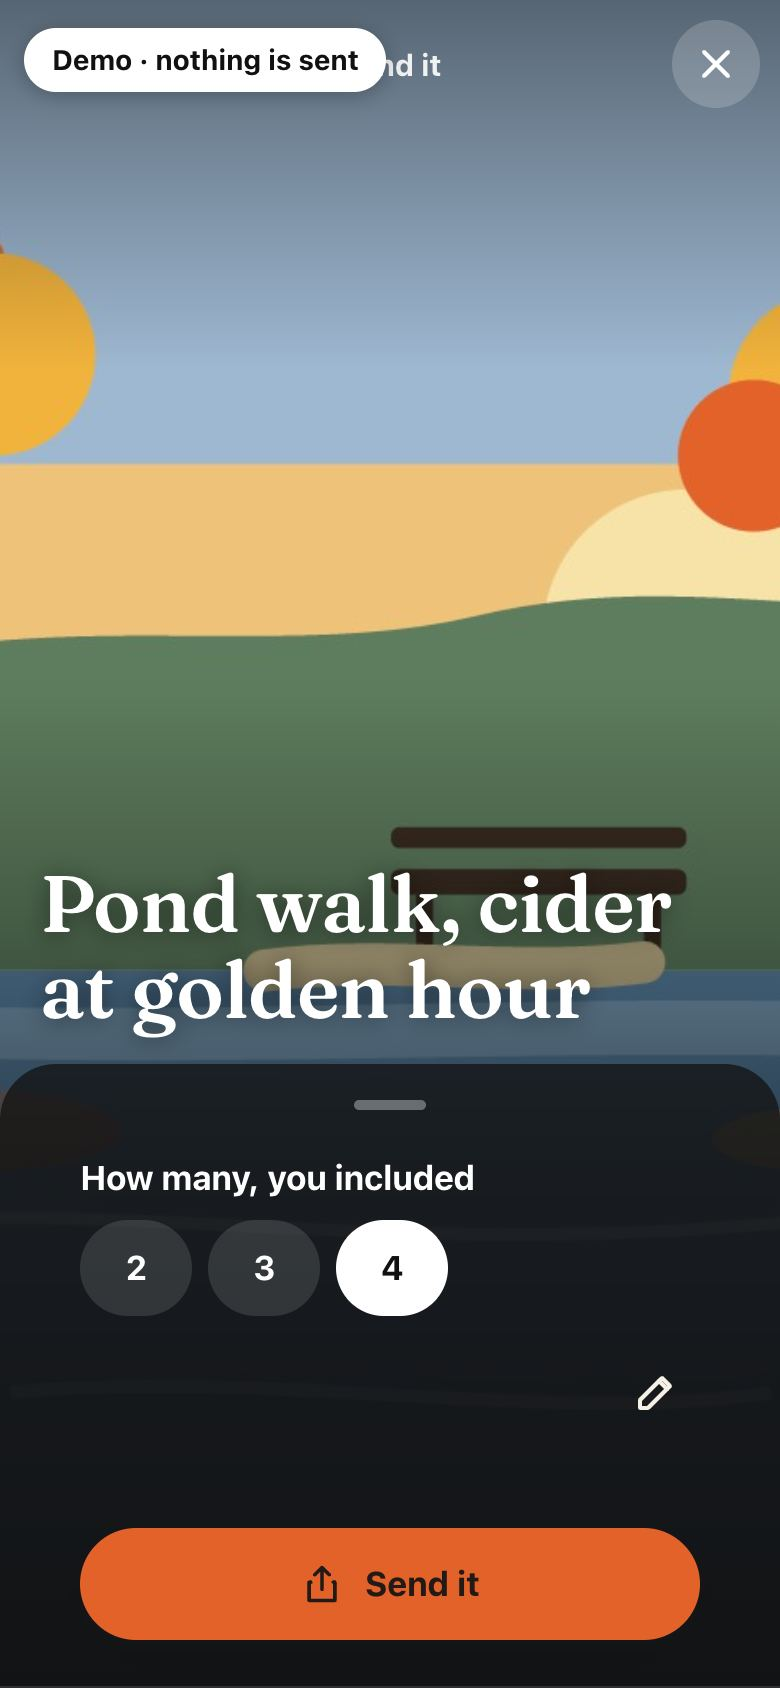
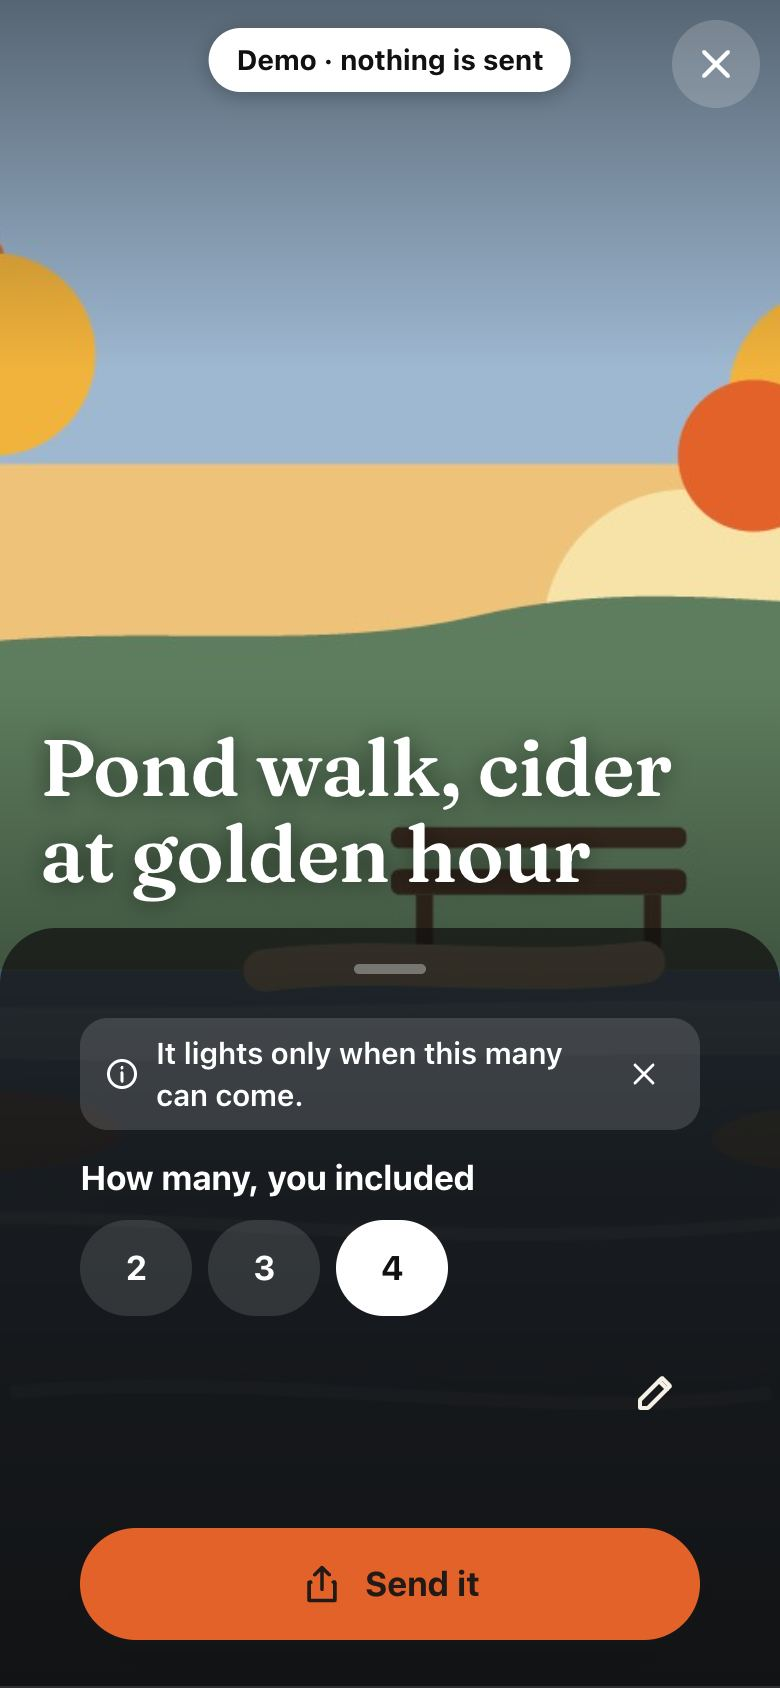
Env aliases for the founder's new keys (ELEVENLABS, TINKER, GEMINI); check-env knows them; backlog
Entire-Checkpoint: 01M4NRTAT7CCRNAA2Z28NYJ815

Changed region(s): [[0.0, 0.4313, 1.0, 0.6777], [0.0308, 0.0, 0.7385, 0.0616]]

diff --git a/scripts/lib/env-spec.ts b/scripts/lib/env-spec.ts
@@ -2,7 +2,7 @@
 // a report never contains a value, a prefix or a length.
 import { accountToken } from "../../packages/shared/src/token-guard.ts";
 
-export type App = "server" | "hub" | "bot" | "deploy" | "test-area";
+export type App = "server" | "hub" | "bot" | "deploy" | "test-area" | "ml";
 export type Rule = {
   key: string;
   apps: App[];
@@ -126,6 +126,26 @@ export const SPEC: Rule[] = [
       const t = accountToken(v);
       return t ? `this is ${t}, not a scoped model access key; the cloud tier stays off` : null;
     },
+  },
+  {
+    key: "GEMINI_API_KEY",
+    apps: ["server"],
+    required: false,
+    why: "Google AI Studio (Gemini API) for the Gemma cloud tier when DigitalOcean is off; off when empty",
+  },
+  { key: "GEMINI_PROJECTNO", apps: ["server"], required: false, why: "Google Cloud project number, for quota lookups" },
+  { key: "GEMINI_PROJECTNAME", apps: ["server"], required: false, why: "Google Cloud project name, for quota lookups" },
+  {
+    key: "ELEVENLABS_API_KEY",
+    apps: ["server"],
+    required: false,
+    why: "ElevenLabs voice for spoken guidance and opt-in Voice Sparks; off when empty (alias ELEVENLABS)",
+  },
+  {
+    key: "TINKER_API_KEY",
+    apps: ["ml"],
+    required: false,
+    why: "Tinker fine-tuning, ML work only, never deployed (alias TINKER)",
   },
   { key: "RENDER_KEY", apps: ["deploy"], required: true, why: "Render API, deploy only" },
   { key: "TEST_AREA_NAME", apps: ["test-area"], required: false, why: "Map pack label" },

diff --git a/scripts/check-env.ts b/scripts/check-env.ts
@@ -3,17 +3,19 @@
 import fs from "node:fs";
 import path from "node:path";
 import { fileURLToPath } from "node:url";
+import { applyEnvAliases } from "../packages/shared/src/env-aliases.ts";
 import { type App, check, failed, format } from "./lib/env-spec.ts";
 
 const ROOT = path.resolve(path.dirname(fileURLToPath(import.meta.url)), "..");
 const file = process.env.FLARE_ENV_FILE ?? path.join(ROOT, ".env");
-const ALL: App[] = ["server", "hub", "bot", "deploy", "test-area"];
+const ALL: App[] = ["server", "hub", "bot", "deploy", "test-area", "ml"];
 const asked = process.argv.slice(2).filter((a): a is App => (ALL as string[]).includes(a));
 const apps = asked.length ? asked : ALL;
 
 // Parse into a private object so the check never mutates process.env.
 const vars: Record<string, string | undefined> = { ...process.env };
 if (fs.existsSync(file)) Object.assign(vars, parseEnv(fs.readFileSync(file, "utf8")));
+applyEnvAliases(vars);
 function parseEnv(text: string): Record<string, string> {
   const util = process as unknown as {
     getBuiltinModule?: (m: string) => { parseEnv?: (s: string) => Record<string, string> };

diff --git a/packages/shared/src/env-aliases.ts b/packages/shared/src/env-aliases.ts
@@ -1,0 +1,15 @@
+// Short names the founder used in .env, mapped to the names the code reads. The canonical
+// name wins when both are set. Values are never printed or logged.
+export const ENV_ALIASES: Record<string, string> = {
+  ELEVENLABS: "ELEVENLABS_API_KEY",
+  TINKER: "TINKER_API_KEY",
+  GEMINI: "GEMINI_API_KEY",
+};
+
+/** Copies alias values onto their canonical names, in place, when the canonical one is empty. */
+export function applyEnvAliases(vars: Record<string, string | undefined>): Record<string, string | undefined> {
+  for (const [alias, name] of Object.entries(ENV_ALIASES)) {
+    if (!vars[name] && vars[alias]) vars[name] = vars[alias];
+  }
+  return vars;
+}

diff --git a/apps/server/src/env.ts b/apps/server/src/env.ts
@@ -2,10 +2,12 @@
 import fs from "node:fs";
 import path from "node:path";
 import { fileURLToPath } from "node:url";
+import { applyEnvAliases } from "@flare/shared/env-aliases";
 
 const ROOT = path.resolve(path.dirname(fileURLToPath(import.meta.url)), "../../..");
 const file = process.env.FLARE_ENV_FILE ?? path.join(ROOT, ".env");
 if (fs.existsSync(file)) process.loadEnvFile(file);
+applyEnvAliases(process.env); // ELEVENLABS → ELEVENLABS_API_KEY, TINKER → TINKER_API_KEY
 
 const str = (k: string, d = "") => process.env[k] ?? d;
 export const env = {

diff --git a/docs/content/03-checks.md b/docs/content/03-checks.md
@@ -4,7 +4,7 @@ Generated by `design/prototype/scripts/copy-lint.mjs`. Run it from `design/proto
 
 ## Result
 
-- Strings checked: **775** keys (7 with a singular form), in 21 kinds: title 109, aria 28, status 66, label 63, button 102, hint 60, separator 2, error 29, message 104, placeholder 7, share 7, option 13, fragment 33, export 1, push 12, bot 18, log 1, sms 4, og-title 9, og-desc 10, prose 97.
+- Strings checked: **795** keys (7 with a singular form), in 21 kinds: title 114, aria 29, status 66, label 67, button 106, hint 66, separator 2, error 29, message 104, placeholder 7, share 7, option 13, fragment 33, export 1, push 12, bot 18, log 1, sms 4, og-title 9, og-desc 10, prose 97.
 - Problems: **0**.
 - Longest button: 3 words (limit 3). Longest UI string: 12 words (limit 12). Longest prose sentence: 23 words (limit 25).
 - Fixed requirement strings present word for word: 41 of 41.
@@ -32,12 +32,12 @@ Every string, raw template and filled sample, against each rule:
 
 ## Readability (Flesch-Kincaid grade)
 
-Formula: 0.39 × (words ÷ sentences) + 11.8 × (syllables ÷ words) − 15.59, in `scripts/readability.mjs`. Strings of 4 words or more are graded (452); the other 316 are buttons and labels of 1 to 3 words, where one long word decides the score and the grade means nothing. Scores below 0 count as 0 in the averages. Target: about grade 6.
+Formula: 0.39 × (words ÷ sentences) + 11.8 × (syllables ÷ words) − 15.59, in `scripts/readability.mjs`. Strings of 4 words or more are graded (466); the other 322 are buttons and labels of 1 to 3 words, where one long word decides the score and the grade means nothing. Scores below 0 count as 0 in the averages. Target: about grade 6.
 
 | Group | Strings | Average grade | Over 8 |
 | --- | --- | --- | --- |
-| All graded strings | 452 | 2.2 | 11 |
-| UI (buttons, messages, labels, push, bot) | 346 | 1.6 | 5 |
+| All graded strings | 466 | 2.1 | 11 |
+| UI (buttons, messages, labels, push, bot) | 360 | 1.6 | 5 |
 | Prose (website, statements, exports) | 106 | 4.0 | 6 |
 
 Strings above grade 8, and why they stay:
@@ -154,7 +154,7 @@ Note for engineering: the "…" that BR-CH-2 asks for is not in the GSM-7 alphab
 These strings are final but live in channels or components outside this role's files. Each group says who wires it.
 
 - **Component (wire after merge): Screen.svelte** (2): `app.close`, `app.menu`
-- **Engineering or design to place** (211): `app.sending`, `app.loading`, `app.waking`, `home.golden`, `home.goldenH`, `home.goldenNow`, `home.goldenLeft`, `home.after`, `home.outside`, `home.dry`, `home.rain`, `home.green`, `home.light`, `home.plan`, `home.near`, `home.nearNote`, `demo.badge`, `demo.try`, `demo.skip`, `demo.asFriend`, `demo.said`, `demo.shrinkHint`, `demo.done`, `demo.again`, `demo.real`, `app.tier.phone`, `app.tier.rules`, `app.dot`, `err.server`, `err.rateLimit`, `err.over`, `err.sealPhoto`, `err.storageFull`, `err.oldBrowser`, `err.inAppBrowser`, `perm.locationHost.title`, `perm.locationHost.body`, `perm.locationHost.allow`, `perm.locationHost.alt`, `perm.locationHost.denied`, `perm.locationHost.label`, `perm.locationHost.placeholder`, `perm.locationFriend.title`, `perm.locationFriend.body`, `perm.locationFriend.allow`, `perm.locationFriend.alt`, `perm.locationFriend.denied`, `perm.motion.title`, `perm.motion.body`, `perm.motion.allow`, `perm.motion.alt`, `perm.motion.denied`, `perm.notify.title`, `perm.notify.body`, `perm.notify.allow`, `perm.notify.alt`, `perm.notify.homeScreen`, `perm.notify.homeScreenHow`, `perm.notify.denied`, `perm.mic.title`, `perm.mic.body`, `perm.mic.body2`, `perm.mic.allow`, `perm.mic.alt`, `perm.mic.denied`, `develop.tooLong`, `sent.copyText`, `sent.copied`, `host.cancel.title`, `host.cancel.body`, `host.cancel.yes`, `host.cancel.no`, `host.textYes.open`, `host.textYes.label`, `host.textYes.hint`, `host.textYes.add`, `host.textYes.done`, `host.textYes.max`, `host.textYes.wrong`, `host.live.title`, `host.live.body`, `host.live.yes`, `host.live.no`, `join.full`, `invite.where`, `cond.listening`, `cond.tooMany`, `readback.line`, `readback.rule.after`, `readback.rule.maxWalk`, `readback.chip.after`, `readback.chip.maxWalk`, `readback.plain.title`, `readback.plain.yes`, `readback.plain.no`, `in.takenBack`, `notSuit.restroom`, `access.benchHere`, `access.noneNear`, `access.unknown`, `need.toLight`, `need.private`, `lit.together`, `lit.cantSheet.title`, `lit.cantSheet.body`, `lit.cantSheet.yes`, `lit.cantSheet.no`, `lit.cantDone`, `compass.start`, `compass.near`, `compass.apart`, `compass.figure8`, `outside.together`, `outside.away`, `outside.awayBody`, `outside.awayCta`, `plan.pickStart`, `plan.pickDeadline`, `plan.err.tooSoon`, `plan.err.tooFar`, `ladder.madeRules`, `ladder.template.step1`, `ladder.template.step2`, `ladder.template.step3`, `ladder.template.step4`, `ladder.sunsetOff`, `ladder.err.order`, `planLit.ember`, `fade.newSpot`, `menu.tg`, `menu.tgSub`, `forget.title`, `forget.body`, `forget.last`, `forget.yes`, `forget.no`, `forget.done`, `more.noGroup`, `forget.failed`, `needs.saved`, `check.copied`, `loop.stopReading`, `loop.noLocation`, `loop.noMap`, `loop.hint`, `loop.finding`, `loop.card.title`, `loop.turn.water`, `map.exportFile`, `map.photoGone`, `map.noteText`, `map.pick`, `map.starter`, `map.changeLabel`, `map.badValue`, `map.save`, `map.noLocation`, `map.copied`, `map.photoAsk`, `map.noPhoto`, `map.drafted`, `map.noDraft`, `site.nav.skip`, `site.nav.footAria`, `site.nav.open`, `site.home.readHow`, `site.home.readPrivacy`, `site.home.readAccess`, `site.home.readRun`, `site.how.gemma`, `site.privacy.audit.live`, `site.privacy.audit.pass`, `site.privacy.audit.fail`, `site.privacy.audit.down`, `site.privacy.audit.colStore`, `site.privacy.audit.colLeft`, `site.privacy.audit.colTotal`, `site.privacy.audit.caption`, `site.run.needs`, `site.run.s1`, `site.run.s2`, `site.run.s3`, `site.run.db`, `site.run.license`, `app.soundOff`, `app.soundOn`, `app.updateReady`, `app.updateReload`, `app.outboxDropped`, `install.title`, `install.body`, `install.cta`, `install.later`, `install.done`, `tg.title`, `tg.what`, `tg.sees`, `tg.add`, `tg.steps`, `tg.connected`, `tg.notYet`, `tg.photos`, `tg.photosNote`, `tg.photosOffNote`, `tg.on`, `tg.off`, `tg.saved`, `tg.unavailable`, `site.privacy.l.sentry`, `site.privacy.l.cloud`, `site.privacy.l.sleep`
+- **Engineering or design to place** (231): `app.sending`, `app.loading`, `app.waking`, `home.golden`, `home.goldenH`, `home.goldenNow`, `home.goldenLeft`, `home.after`, `home.outside`, `home.dry`, `home.rain`, `home.green`, `home.light`, `home.plan`, `home.near`, `home.nearNote`, `demo.badge`, `demo.try`, `demo.skip`, `demo.asFriend`, `demo.said`, `demo.shrinkHint`, `demo.done`, `demo.again`, `demo.real`, `onb.1.title`, `onb.1.body`, `onb.2.title`, `onb.2.body`, `onb.3.title`, `onb.3.body`, `onb.next`, `onb.skip`, `onb.name`, `onb.nameHint`, `onb.go`, `onb.how`, `onb.link`, `onb.linkHelp`, `onb.cardAria`, `tip.home`, `tip.invite`, `tip.compass`, `tip.send`, `app.tier.phone`, `app.tier.rules`, `app.dot`, `err.server`, `err.rateLimit`, `err.over`, `err.sealPhoto`, `err.storageFull`, `err.oldBrowser`, `err.inAppBrowser`, `perm.locationHost.title`, `perm.locationHost.body`, `perm.locationHost.allow`, `perm.locationHost.alt`, `perm.locationHost.denied`, `perm.locationHost.label`, `perm.locationHost.placeholder`, `perm.locationFriend.title`, `perm.locationFriend.body`, `perm.locationFriend.allow`, `perm.locationFriend.alt`, `perm.locationFriend.denied`, `perm.motion.title`, `perm.motion.body`, `perm.motion.allow`, `perm.motion.alt`, `perm.motion.denied`, `perm.notify.title`, `perm.notify.body`, `perm.notify.allow`, `perm.notify.alt`, `perm.notify.homeScreen`, `perm.notify.homeScreenHow`, `perm.notify.denied`, `perm.mic.title`, `perm.mic.body`, `perm.mic.body2`, `perm.mic.allow`, `perm.mic.alt`, `perm.mic.denied`, `develop.tooLong`, `sent.copyText`, `sent.copied`, `host.kindling.justSent`, `host.cancel.title`, `host.cancel.body`, `host.cancel.yes`, `host.cancel.no`, `host.textYes.open`, `host.textYes.label`, `host.textYes.hint`, `host.textYes.add`, `host.textYes.done`, `host.textYes.max`, `host.textYes.wrong`, `host.live.title`, `host.live.body`, `host.live.yes`, `host.live.no`, `join.full`, `invite.where`, `cond.listening`, `cond.tooMany`, `readback.line`, `readback.rule.after`, `readback.rule.maxWalk`, `readback.chip.after`, `readback.chip.maxWalk`, `readback.plain.title`, `readback.plain.yes`, `readback.plain.no`, `in.takenBack`, `notSuit.restroom`, `access.benchHere`, `access.noneNear`, `access.unknown`, `need.toLight`, `need.private`, `lit.together`, `lit.cantSheet.title`, `lit.cantSheet.body`, `lit.cantSheet.yes`, `lit.cantSheet.no`, `lit.cantDone`, `compass.start`, `compass.near`, `compass.apart`, `compass.figure8`, `outside.together`, `outside.away`, `outside.awayBody`, `outside.awayCta`, `plan.pickStart`, `plan.pickDeadline`, `plan.err.tooSoon`, `plan.err.tooFar`, `ladder.madeRules`, `ladder.template.step1`, `ladder.template.step2`, `ladder.template.step3`, `ladder.template.step4`, `ladder.sunsetOff`, `ladder.err.order`, `planLit.ember`, `fade.newSpot`, `menu.tg`, `menu.tgSub`, `forget.title`, `forget.body`, `forget.last`, `forget.yes`, `forget.no`, `forget.done`, `more.noGroup`, `forget.failed`, `needs.saved`, `check.copied`, `loop.stopReading`, `loop.noLocation`, `loop.noMap`, `loop.hint`, `loop.finding`, `loop.card.title`, `loop.turn.water`, `map.exportFile`, `map.photoGone`, `map.noteText`, `map.pick`, `map.starter`, `map.changeLabel`, `map.badValue`, `map.save`, `map.noLocation`, `map.copied`, `map.photoAsk`, `map.noPhoto`, `map.drafted`, `map.noDraft`, `site.nav.skip`, `site.nav.footAria`, `site.nav.open`, `site.home.readHow`, `site.home.readPrivacy`, `site.home.readAccess`, `site.home.readRun`, `site.how.gemma`, `site.privacy.audit.live`, `site.privacy.audit.pass`, `site.privacy.audit.fail`, `site.privacy.audit.down`, `site.privacy.audit.colStore`, `site.privacy.audit.colLeft`, `site.privacy.audit.colTotal`, `site.privacy.audit.caption`, `site.run.needs`, `site.run.s1`, `site.run.s2`, `site.run.s3`, `site.run.db`, `site.run.license`, `app.soundOff`, `app.soundOn`, `app.updateReady`, `app.updateReload`, `app.outboxDropped`, `install.title`, `install.body`, `install.cta`, `install.later`, `install.done`, `tg.title`, `tg.what`, `tg.sees`, `tg.add`, `tg.steps`, `tg.connected`, `tg.notYet`, `tg.photos`, `tg.photosNote`, `tg.photosOffNote`, `tg.on`, `tg.off`, `tg.saved`, `tg.unavailable`, `site.privacy.l.sentry`, `site.privacy.l.cloud`, `site.privacy.l.sleep`
 - **Component (wire after merge): apps/web/src/lib/ai** (6): `develop.empty`, `ladder.err.minutes`, `ladder.err.total`, `ladder.err.name`, `app.tier.cloud`, `ladder.madeCloud`
 - **Channel (engineering): share** (7): `share.flare.title`, `share.flare.text`, `share.plan.title`, `share.plan.text`, `share.card.title`, `share.card.text`, `share.note.title`
 - **Component (wire after merge): motion:PhotoPrint** (1): `invite.photoFallback`

diff --git a/docs/content/02-copy-deck.md b/docs/content/02-copy-deck.md
@@ -2,7 +2,7 @@
 
 Generated by `design/prototype/scripts/copy-lint.mjs` from `design/prototype/src/lib/copy/deck.json` (version 1.0, 2026-10-10). Do not edit this file by hand; edit the JSON and run the script.
 
-775 keys. Text is the template; **Words** and **Grade** are measured on the template filled with the sample values in `meta.sample` (Fuego, Ford Woods Park, by the pond). **Source** is the requirement a fixed string comes from; those must not change without a change request.
+795 keys. Text is the template; **Words** and **Grade** are measured on the template filled with the sample values in `meta.sample` (Fuego, Ford Woods Park, by the pond). **Source** is the requirement a fixed string comes from; those must not change without a change request.
 
 Variants in force: `privacy.coords` = B, `og.link` = safe. A = server holds spot coordinates until Gone (analyst decision 10, current requirements). B = OQ-1 adopted: coordinates only inside the sealed invite. B is in force: ADR-0009 adopted OQ-1. safe = preview uses only what the server can read (count, not the invite). full = BR-CH-4 as written (invite line in the preview); needs the server to hold the six words in plain text, which the architect must approve.
 
@@ -61,6 +61,35 @@ Variants in force: `privacy.coords` = B, `og.link` = safe. A = server holds spot
 | `demo.done` | That's Flare. Try it with your friends. | title | 7 | -2.4 | demo |  |
 | `demo.again` | Play again | button | 2 | 2.9 | demo |  |
 | `demo.real` | Light a Flare | button | 3 | -2.6 | demo |  |
+
+## onb
+
+| Key | Text | Kind | Words | Grade | Where | Source or status |
+| --- | --- | --- | --- | --- | --- | --- |
+| `onb.1.title` | Snap where you are | title | 4 | -2.2 | onboarding |  |
+| `onb.1.body` | Gemma writes six words. Your friends get a link. | label | 9 | -0.7 | onboarding |  |
+| `onb.2.title` | Yes, in private | title | 3 | 1.3 | onboarding |  |
+| `onb.2.body` | It lights when enough can come. Nobody sees who. | label | 9 | 1.9 | onboarding |  |
+| `onb.3.title` | Then it's gone | title | 3 | -2.6 | onboarding |  |
+| `onb.3.body` | It all deletes itself 5 minutes after the end. | label | 9 | 5.0 | onboarding |  |
+| `onb.next` | Next | button | 1 | -3.4 | onboarding |  |
+| `onb.skip` | Skip | button | 1 | -3.4 | onboarding |  |
+| `onb.name` | What do friends call you? | title | 5 | -1.8 | onboarding |  |
+| `onb.nameHint` | Only your crew sees it. | hint | 5 | 0.5 | onboarding |  |
+| `onb.go` | Continue | button | 1 | 20.2 | onboarding |  |
+| `onb.how` | How do you want to start? | title | 6 | -1.4 | onboarding |  |
+| `onb.link` | Got a link? | button | 3 | -2.6 | onboarding |  |
+| `onb.linkHelp` | Open the link your friend sent. It brings you here. | hint | 10 | -0.7 | onboarding |  |
+| `onb.cardAria` | Card {n} of 3 | aria | 4 | -2.2 | onboarding |  |
+
+## tip
+
+| Key | Text | Kind | Words | Grade | Where | Source or status |
+| --- | --- | --- | --- | --- | --- | --- |
+| `tip.home` | Light a Flare from where you are. Friends get a link. | hint | 11 | -1.6 | H0 |  |
+| `tip.invite` | Your yes is private. Only the count shows. | hint | 8 | 0.7 | I1 |  |
+| `tip.compass` | Hold the phone flat and turn slowly. | hint | 7 | 0.6 | I7 |  |
+| `tip.send` | It lights only when this many can come. | hint | 8 | 2.3 | H3 |  |
 
 ## err
 
@@ -188,7 +217,7 @@ Variants in force: `privacy.coords` = B, `og.link` = safe. A = server holds spot
 | `sent.body` | Phone in your pocket. We'll buzz you when it's lit. | message | 10 | -0.7 | H4 |  |
 | `sent.shrinkNote` | If it doesn't catch in 30 min, it gets smaller. | hint | 10 | 1.3 | H4 |  |
 | `sent.pocket` | Pocket it | button | 2 | 2.9 | H4 I4 I8 P3 |  |
-| `sent.shareAgain` | Share again | button | 2 | 2.9 | H4 |  |
+| `sent.shareAgain` | Share | button | 1 | -3.4 | H4 |  |
 | `sent.copyText` | Copy as text | button | 3 | 1.3 | H4 (needs a place in the layout) |  |
 | `sent.copied` | Copied. Paste it into any text message. | status | 7 | 2.6 | H4 |  |
 
@@ -199,13 +228,14 @@ Variants in force: `privacy.coords` = B, `og.link` = safe. A = server holds spot
 | `host.kindling.heading` | Your Flare is waiting | title | 4 | 0.7 | H5 |  |
 | `host.kindling.title` | Your Flare | title | 2 | -3.0 | H5 |  |
 | `host.kindling.sentAgo` | Sent {min} min ago. Friends answer in private. | message | 8 | 0.7 | H5 |  |
+| `host.kindling.justSent` | Sent a moment ago. Friends answer in private. | label | 8 | 2.2 | H5 |  |
 | `host.kindling.shrinkIn` | Gets smaller in {min} min if it doesn't catch. | message | 9 | 1.0 | H5 |  |
 | `host.kindling.cancel` | Cancel Flare | button | 2 | 2.9 | H5 |  |
 | `host.cancel.title` | Cancel this Flare? | title | 3 | 1.3 | H5 sheet |  |
 | `host.cancel.body` | Everyone sees 'Not this time.' Nobody learns why. | message | 8 | 5.2 | H5 sheet |  |
 | `host.cancel.yes` | Cancel it | button | 2 | 2.9 | H5 sheet |  |
 | `host.cancel.no` | Keep it | button | 2 | -3.0 | H5 sheet |  |
-| `host.textYes.open` | Add text yes | button | 3 | -2.6 | H5 (SRS-CH-6, needs a place in the layout) |  |
+| `host.textYes.open` | Text reply | button | 2 | 2.9 | H5 (SRS-CH-6, needs a place in the layout) |  |
 | `host.textYes.label` | Reply code | label | 2 | 2.9 | H5 sheet |  |
 | `host.textYes.hint` | From a text like IN {code}. | hint | 6 | -1.4 | H5 sheet |  |
 | `host.textYes.add` | Count it | button | 2 | -3.0 | H5 sheet |  |

diff --git a/docs/engineering/07-sunday-backlog.md b/docs/engineering/07-sunday-backlog.md
@@ -18,3 +18,16 @@ Every founder and manager ask from Sun 2026-10-11 after the deploy, in the order
 | 12 | Recapture docs/post/media from the new UI; post rework: no outdoor group-test claim unless one happens; built on real-stack runs, iPhone device checks (16 Pro Max, 13), live Telegram checks, deletion audit; signature-moments checklist (docs/post/signature-moments.md) driving the prize section | To do |
 
 Signature moments to finish each tool around (proof for each): Gemma (photo spoken to a low-vision friend, then the talking compass; Voice Flares), DigitalOcean (a crew with no laptop; hub drop mid-Flare with no failed invite; trace plus cost math), Sentry (debug the agent without seeing anyone's words; trace next to the scrub test), Mastra (an agent that never lets a plan die; eval vs old ladder plus a trace), Entire (which AI teammate wrote each line; checkpoint links after the scrub), the simulation ("A Saturday in Fairlane, played by 50 friends", labelled Simulation).
+
+## Added ~12:40 ET (manager, founder)
+
+| # | Item | Status |
+| --- | --- | --- |
+| 13 | 5-second clarity: website hero one line + one picture + big "Try the demo"; app first run onboarding → demo → make a crew; a fresh-eyes subagent (no context) uses the live site and reports every confusion; fix them | To do (after Crew) |
+| 14 | Website feature section in the go-outside theme: a card per feature (private yes + quorum, Ember, Plan + fade, Find them, accessibility, offline, Telegram + iMessage, Sparks + Atlas, Crew space, Voice Flares, auditable deletion, automations), 3-6 word title, one sentence, small real screenshot or loop, "Try it" deep link into the demo; "Built with" strip linking each tool to its signature moment; keep Lighthouse 100 | To do (after #13) |
+| 15 | Gemini API cloud tier (GEMINI_API_KEY, Gemma 4 via Google AI Studio): check model IDs and free limits; text jobs when no hub, photo only on explicit tap, daily cap, privacy page, ADR; DigitalOcean first if it comes back, else Google; demo stays offline | To do |
+| 16 | ElevenLabs: warm voice for low-vision guidance (reads invite, scene, compass lines; generated text only, never people's audio; optional, on-device fallback, cached per Flare, deleted at Gone); Voice Spark (opt-in 10 s own memory → Scribe → text, audio discarded at once); privacy page, ADR, honest "the one closed API" note. NOT recording group conversations (consent, leaves nothing behind) | To do |
+| 17 | Tinker fine-tune (S3 subagent, branch `tinker`): LoRA on a small open model for a measured failure (conditions hard set 15/20), before/after evals, model card | Running |
+| 18 | Env aliases: ELEVENLABS → ELEVENLABS_API_KEY, TINKER → TINKER_API_KEY, GEMINI_API_KEY (+ GEMINI_PROJECTNO, GEMINI_PROJECTNAME) in env.ts and check-env; never printed | In progress |
+
+Order after Crew: 13, 14 (website), 15, 16, 9 (Voice Flares, Atlas), 10 + 17 (merge S1, S2, Tinker), 11, 12.
